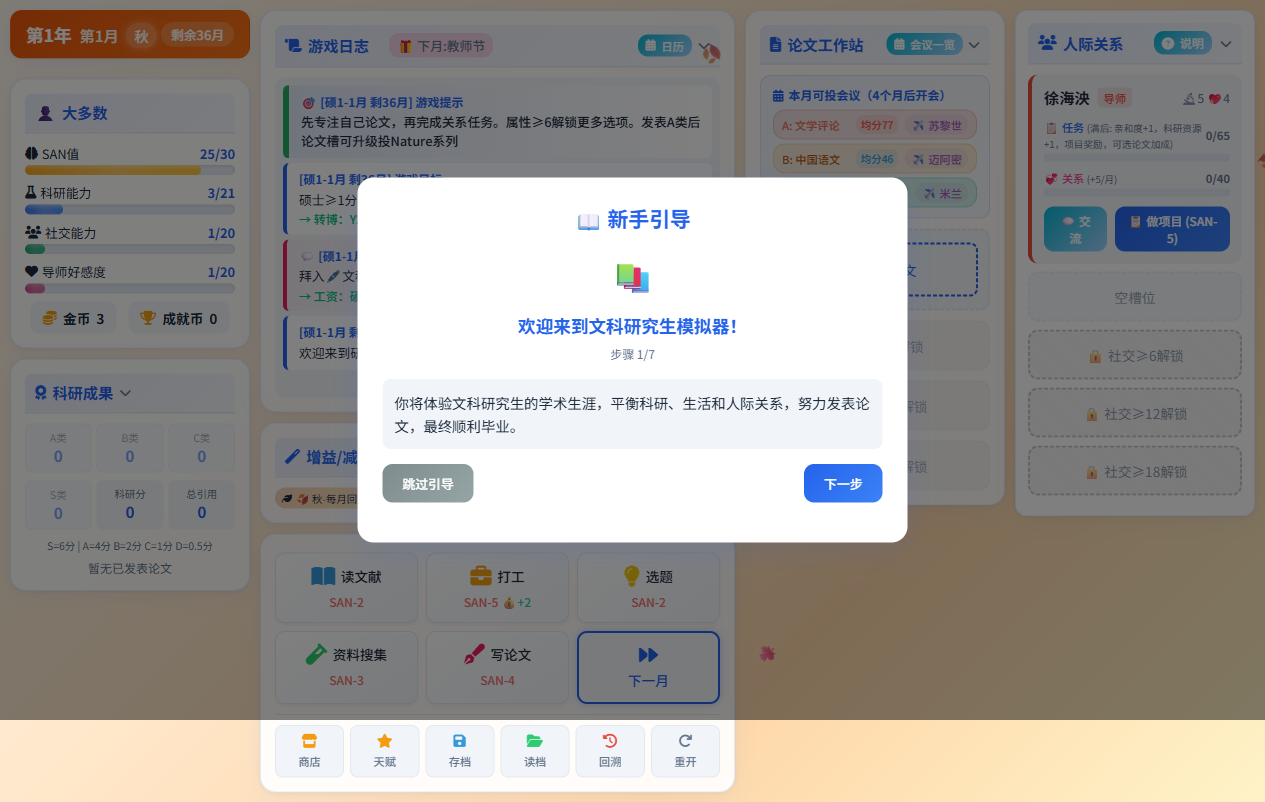
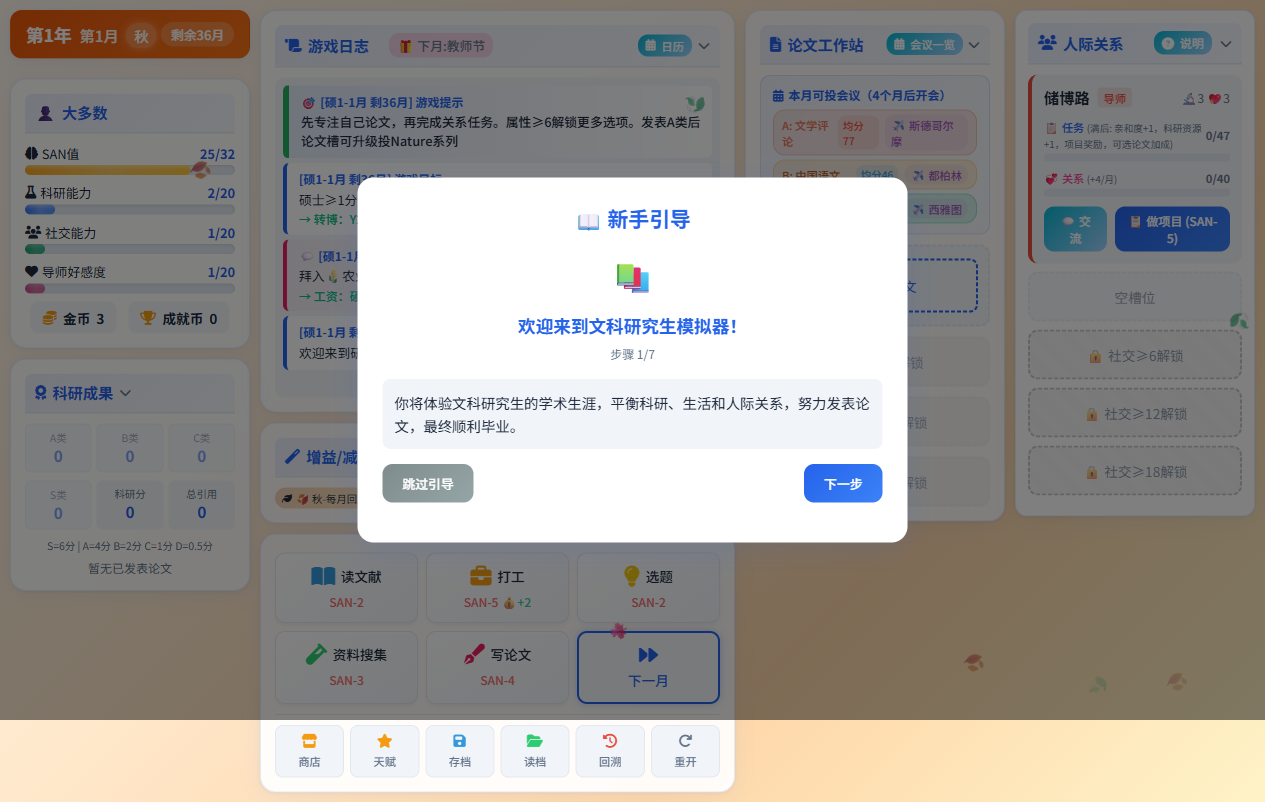
fix: 新手引导改为立即显示，不延迟

diff --git a/js/features/characters.js b/js/features/characters.js
@@ -1280,17 +1280,11 @@
 					renderRelationshipPanel();
 					updateAllUI();
 
-					// ★★★ 文科版：显示新手引导（延迟到玩家第一次操作后）★★★
+					// ★★★ 文科版：显示新手引导 ★★★
 					if (typeof IS_LIBERAL_ARTS !== 'undefined' && IS_LIBERAL_ARTS && typeof shouldShowGuide === 'function' && typeof showLiberalArtsGuide === 'function') {
 						if (shouldShowGuide()) {
-							// 延迟更长时间，确保玩家已完成初始操作
-							setTimeout(() => {
-								// 只有在没有其他弹窗时才显示引导
-								const overlay = document.getElementById('modal-overlay');
-								if (!overlay || !overlay.classList.contains('active')) {
-									showLiberalArtsGuide();
-								}
-							}, 3000);
+							// 立即显示引导，不延迟
+							showLiberalArtsGuide();
 						}
 					}
 				});
